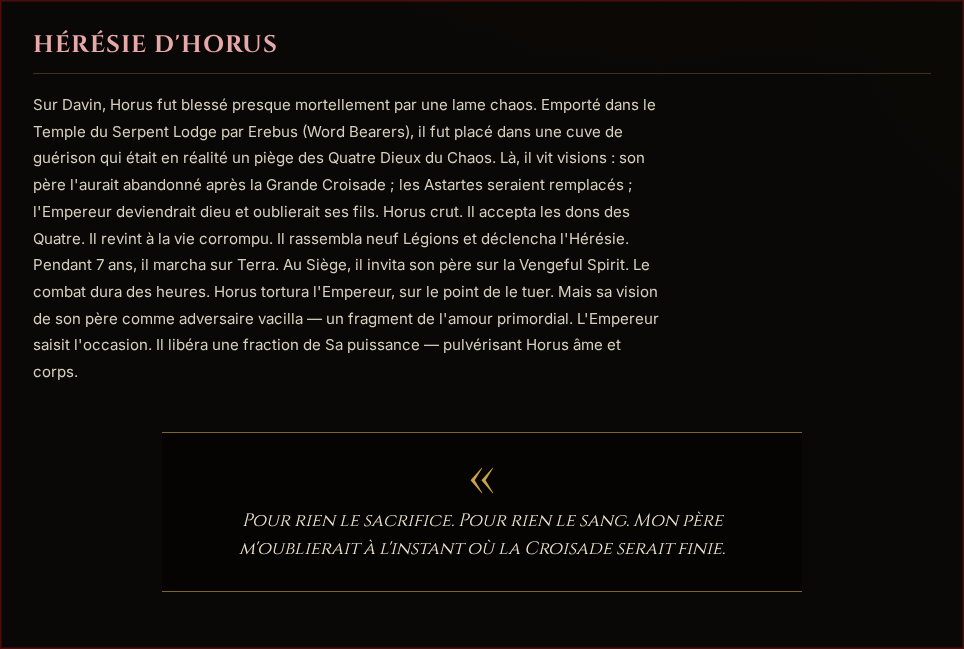
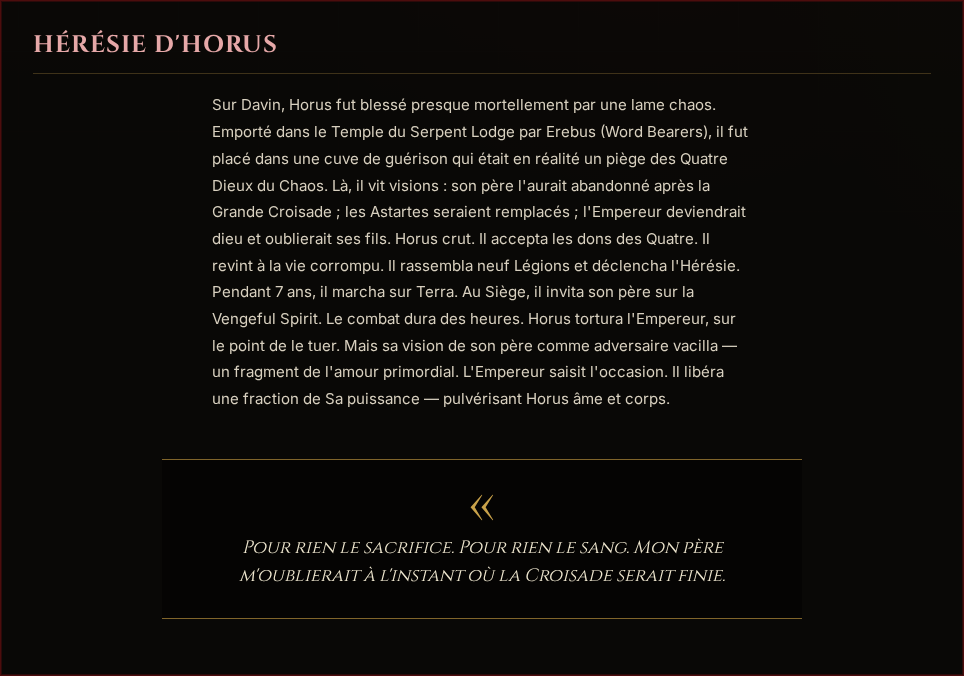
docs(L158/t1): capture de l'Hérésie refaite sur l'application construite (texte centré, ≈ 70 caractères par ligne) et légende exacte

diff --git a/docs/nouveautes/2026-10-21-fiche-d-un-primarque-sections-plus-confortables-a-lire.md b/docs/nouveautes/2026-10-21-fiche-d-un-primarque-sections-plus-confortables-a-lire.md
@@ -4,7 +4,7 @@ date: 2026-10-21
 created: 2026-10-21T19:35+02:00
 lots: [L158]
 captures:
-  - { file: captures/L158-primarque-heresie-1440.png, alt: "Section Hérésie d'Horus sur grand écran : le texte tient dans une colonne de lecture d'environ 70 caractères par ligne, la citation est centrée dessous" }
+  - { file: captures/L158-primarque-heresie-1440.png, alt: "Section Hérésie d'Horus sur grand écran : le texte, d'environ 70 caractères par ligne, forme une colonne centrée dans la section, sur le même axe que la citation placée dessous" }
   - { file: captures/L158-primarque-destin-perdu-1440.png, alt: "Section Destin du Second Primarque sur grand écran : le texte occupe sa colonne de lecture, sans colonne vide à droite" }
   - { file: captures/L158-primarque-destin-perdu-390.png, alt: "Section Destin du Second Primarque sur téléphone (390 px) : le texte sur toute la largeur de la section" }
 ---
